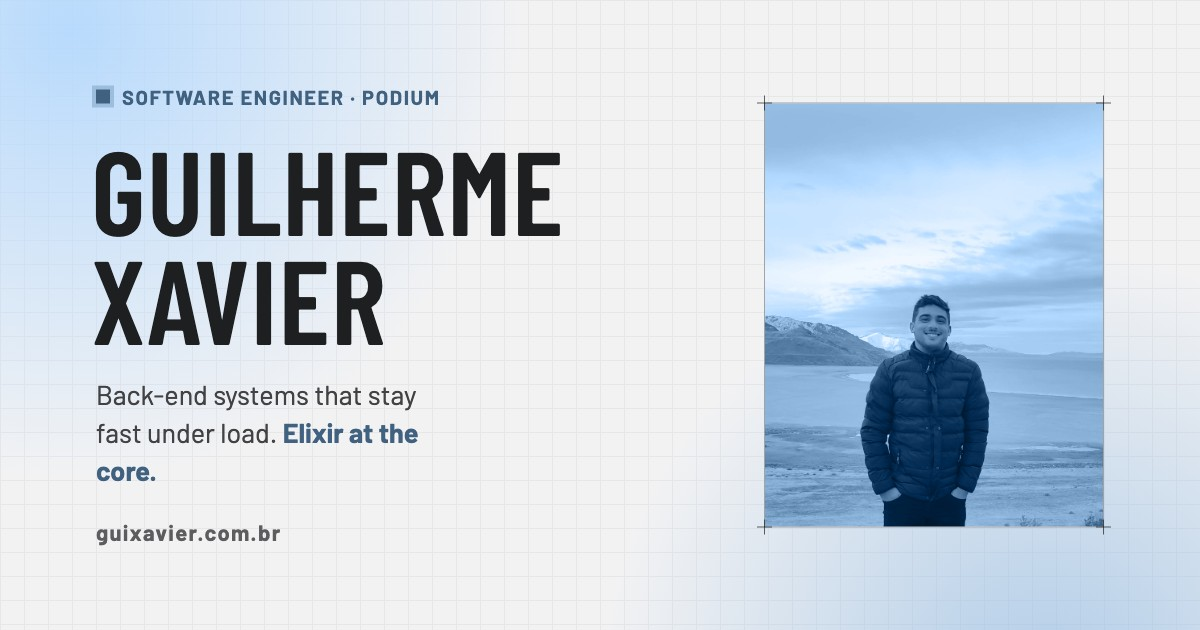
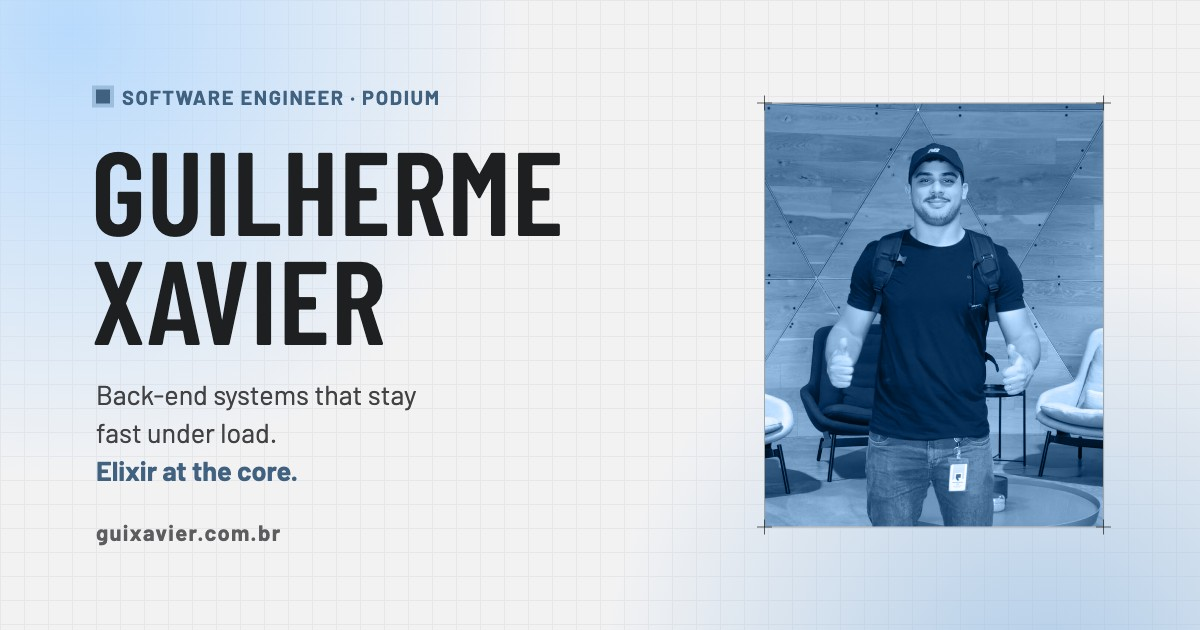
fix: update image references and alt text in index.html

Changed region(s): [[0.6167, 0.1508, 0.925, 0.8444], [0.0617, 0.7238, 0.2467, 0.7841], [0.2158, 0.6635, 0.37, 0.7238]]

diff --git a/docs/index.html b/docs/index.html
@@ -19,7 +19,7 @@
 		content="Back-end systems on Elixir and Phoenix: GraphQL gateways, real-time messaging, and the React interfaces on top of them.">
 	<meta property="og:type" content="website">
 	<meta property="og:url" content="https://guixavier.com.br/">
-	<meta property="og:image" content="https://guixavier.com.br/images/og.jpg">
+	<meta property="og:image" content="https://guixavier.com.br/images/og.jpg?v=2">
 	<meta property="og:image:width" content="1200">
 	<meta property="og:image:height" content="630">
 	<meta property="og:image:alt" content="Guilherme Xavier, software engineer. Elixir at the core.">
@@ -27,7 +27,7 @@
 	<meta name="twitter:title" content="Guilherme Xavier — Software Engineer">
 	<meta name="twitter:description"
 		content="Back-end systems on Elixir and Phoenix: GraphQL gateways, real-time messaging, and the React interfaces on top of them.">
-	<meta name="twitter:image" content="https://guixavier.com.br/images/og.jpg">
+	<meta name="twitter:image" content="https://guixavier.com.br/images/og.jpg?v=2">
 	<meta name="theme-color" content="#f2f2f3">
 	<link rel="canonical" href="https://guixavier.com.br/">
 
@@ -122,10 +122,10 @@
 					<picture>
 						<source srcset="images/eu-840.webp" type="image/webp">
 						<img src="images/eu-840.jpg" width="840" height="1050" fetchpriority="high" decoding="async"
-							alt="Guilherme Xavier standing by a lake with snow-capped mountains behind him, near Salt Lake City">
+							alt="Guilherme Xavier giving two thumbs up in a wood-panelled geodesic dome lounge">
 					</picture>
 					<figcaption class="gx-photo-caption glass">
-						<span>Fig. 01 · Salt Lake City, Utah</span>
+						<span>Fig. 01 · Lehi, Utah</span>
 						<span><span class="gx-hover-only">Hover for color</span><span class="gx-tap-only">Tap for color</span></span>
 					</figcaption>
 					<i class="corner tl"></i><i class="corner tr"></i><i class="corner bl"></i><i class="corner br"></i>
